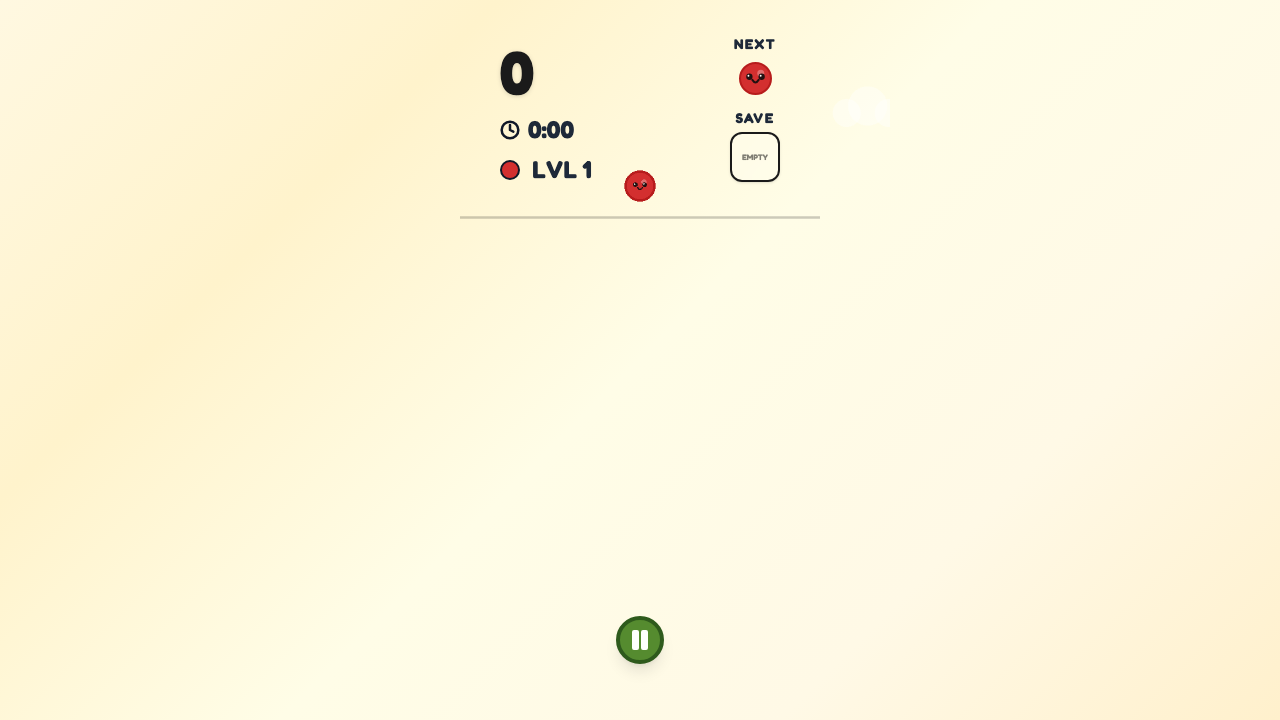
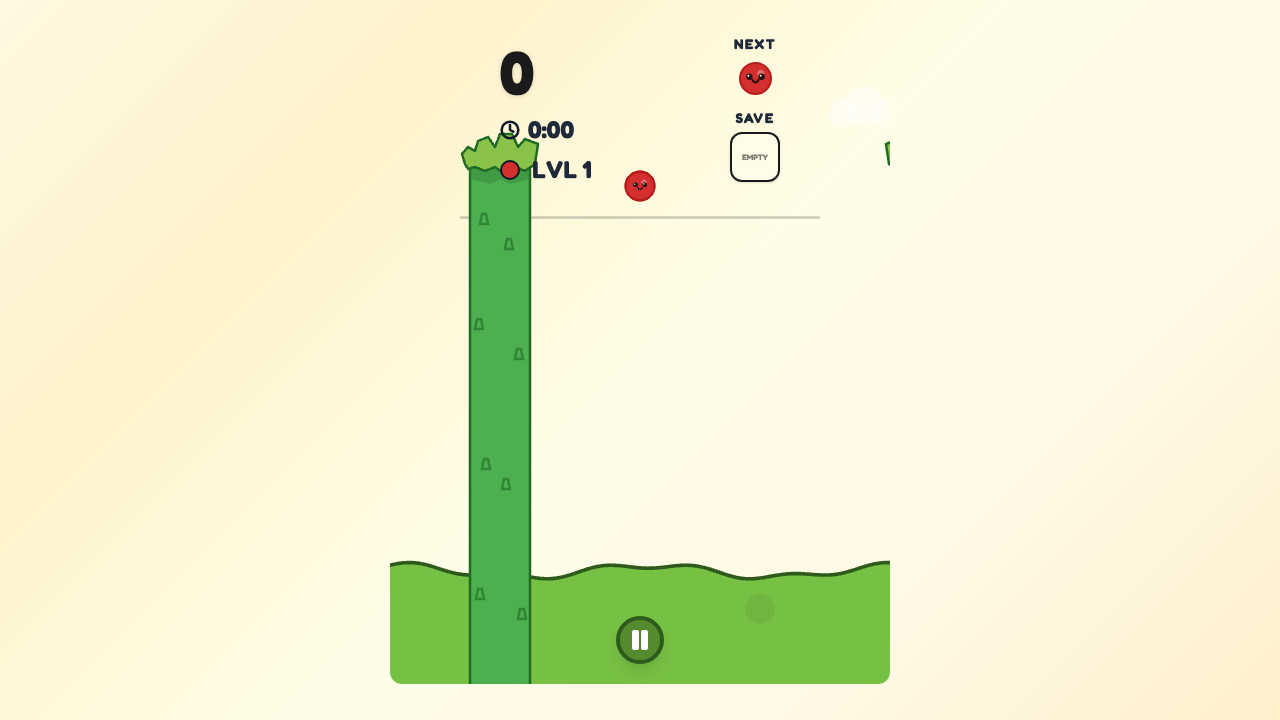
fix: Move WallRenderer + CloudRenderer to screen-space (Pixi stage), fix initialization order

Changed region(s): [[0.2812, 0.1833, 0.7188, 0.9472]]

diff --git a/services/renderers/WallRenderer.ts b/services/renderers/WallRenderer.ts
@@ -1,99 +1,77 @@
 import * as PIXI from 'pixi.js';
 
 /**
- * Renders the grass walls in Pixi.
- * Replaces WallCanvas.tsx — draws left and right grass walls.
+ * Renders the grass walls in Pixi screen-space.
+ * Replaces WallCanvas.tsx — draws left and right grass walls at screen coordinates.
  */
 export class WallRenderer {
-    private leftWall: PIXI.Graphics;
-    private rightWall: PIXI.Graphics;
+    private leftWall: PIXI.Container;
+    private rightWall: PIXI.Container;
 
-    constructor(parent: PIXI.Container) {
-        this.leftWall = new PIXI.Graphics();
-        this.rightWall = new PIXI.Graphics();
-        this.leftWall.zIndex = -50;
-        this.rightWall.zIndex = -50;
-        parent.addChild(this.leftWall);
-        parent.addChild(this.rightWall);
+    constructor(stage: PIXI.Container) {
+        this.leftWall = new PIXI.Container();
+        this.rightWall = new PIXI.Container();
+        this.leftWall.zIndex = 5;
+        this.rightWall.zIndex = 5;
+        stage.addChild(this.leftWall);
+        stage.addChild(this.rightWall);
     }
 
     /**
-     * Draw both grass walls.
-     * @param vHeight Virtual height of the game area
-     * @param scaleFactor Current scale factor
-     * @param gameAreaWidth Game area width in CSS pixels
+     * Draw both grass walls in screen coordinates.
      */
-    draw(vHeight: number, scaleFactor: number, gameAreaWidth: number): void {
-        this.leftWall.clear();
-        this.rightWall.clear();
+    draw(gameAreaWidth: number, _gameAreaHeight: number, containerTop: number, containerLeft: number, screenHeight: number): void {
+        this.leftWall.removeChildren();
+        this.rightWall.removeChildren();
 
         const wallWidth = 80;
-        const wallHeight = vHeight;
+        const wallHeight = screenHeight - 60;
+        const topMargin = 60;
 
-        // Left wall at x=0
-        this.drawWallShape(this.leftWall, wallHeight, false);
+        const drawWallShape = (): PIXI.Graphics => {
+            const g = new PIXI.Graphics();
 
-        // Right wall at x=vWidth, mirrored
-        const vWidth = gameAreaWidth / scaleFactor;
-        this.rightWall.x = vWidth;
+            // Main Wall Body
+            g.poly([10, 35, 10, wallHeight - 10, 10, wallHeight, 60, wallHeight, 70, wallHeight - 10, 70, 35]);
+            g.fill({ color: 0x4CAF50 });
+            g.stroke({ width: 2.5, color: 0x1f6b23, join: 'round' });
+
+            // Shadow under Grass Cap
+            g.poly([10, 35, 70, 35, 70, 50, 50, 55, 40, 50, 30, 55, 10, 50]);
+            g.fill({ color: 0x2E7D32, alpha: 0.4 });
+
+            // Grass Cap
+            g.poly([5, 35, 2, 25, 8, 18, 15, 22, 18, 12, 28, 8, 35, 18, 40, 5, 52, 5, 58, 18, 65, 10, 78, 15, 75, 35, 65, 42, 55, 38, 45, 45, 35, 38, 25, 42, 15, 38, 8, 40]);
+            g.fill({ color: 0x8BC34A });
+            g.stroke({ width: 2.5, color: 0x1f6b23, join: 'round' });
+
+            // Decorative Tufts
+            const tufts = [
+                { x: 20, y: 95 }, { x: 15, y: 200 }, { x: 22, y: 340 }, { x: 16, y: 470 },
+                { x: 45, y: 120 }, { x: 55, y: 230 }, { x: 42, y: 360 }, { x: 58, y: 490 },
+            ];
+            g.stroke({ width: 2.5, color: 0x1f6b23, cap: 'round', alpha: 0.6 });
+            tufts.forEach(tuft => {
+                if (tuft.y < wallHeight) {
+                    g.poly([tuft.x, tuft.y, tuft.x + 2, tuft.y - 10, tuft.x + 6, tuft.y - 10, tuft.x + 8, tuft.y]);
+                    g.stroke();
+                }
+            });
+
+            return g;
+        };
+
+        // Left wall
+        this.leftWall.x = containerLeft;
+        this.leftWall.y = topMargin;
+        const leftGraphics = drawWallShape();
+        this.leftWall.addChild(leftGraphics);
+
+        // Right wall (mirrored: flat side faces game area)
+        this.rightWall.x = containerLeft + gameAreaWidth;
+        this.rightWall.y = topMargin;
         this.rightWall.scale.x = -1;
-        this.drawWallShape(this.rightWall, wallHeight, false);
-    }
-
-    private drawWallShape(g: PIXI.Graphics, wallHeight: number, _side: boolean): void {
-        // Main Wall Body
-        g.poly([
-            10, 35,
-            10, wallHeight - 10,
-            10, wallHeight,
-            60, wallHeight,
-            70, wallHeight - 10,
-            70, 35,
-        ]);
-        g.fill({ color: 0x4CAF50 });
-        g.stroke({ width: 2.5, color: 0x1f6b23, join: 'round' });
-
-        // Shadow under Grass Cap
-        g.poly([
-            10, 35,
-            70, 35,
-            70, 50,
-            50, 55,
-            40, 50,
-            30, 55,
-            10, 50,
-        ]);
-        g.fill({ color: 0x2E7D32, alpha: 0.4 });
-
-        // Grass Cap (Bezier approximation with line segments)
-        g.poly([
-            5, 35, 2, 25, 8, 18, 15, 22,
-            18, 12, 28, 8, 35, 18,
-            40, 5, 52, 5, 58, 18,
-            65, 10, 78, 15, 75, 35,
-            65, 42, 55, 38, 45, 45,
-            35, 38, 25, 42, 15, 38, 8, 40,
-        ]);
-        g.fill({ color: 0x8BC34A });
-        g.stroke({ width: 2.5, color: 0x1f6b23, join: 'round' });
-
-        // Decorative Tufts
-        const tufts = [
-            { x: 20, y: 95 }, { x: 15, y: 200 }, { x: 22, y: 340 }, { x: 16, y: 470 },
-            { x: 45, y: 120 }, { x: 55, y: 230 }, { x: 42, y: 360 }, { x: 58, y: 490 },
-        ];
-
-        g.stroke({ width: 2.5, color: 0x1f6b23, cap: 'round', alpha: 0.6 });
-        tufts.forEach(tuft => {
-            if (tuft.y < wallHeight) {
-                g.poly([
-                    tuft.x, tuft.y,
-                    tuft.x + 2, tuft.y - 10,
-                    tuft.x + 6, tuft.y - 10,
-                    tuft.x + 8, tuft.y,
-                ]);
-                g.stroke();
-            }
-        });
+        const rightGraphics = drawWallShape();
+        this.rightWall.addChild(rightGraphics);
     }
 }

diff --git a/services/GameEngine.ts b/services/GameEngine.ts
@@ -11,6 +11,7 @@ import { EffectSystem } from './systems/EffectSystem';
 import { RenderSystem } from './systems/RenderSystem';
 import { ScoreController } from './systems/ScoreController';
 import { CloudRenderer } from './renderers/CloudRenderer';
+import { WallRenderer } from './renderers/WallRenderer';
 
 // --- Virtual Resolution ---
 // Aspect Ratio: 4:5
@@ -30,6 +31,12 @@ export class GameEngine {
     renderSystem: RenderSystem;
     scoreController: ScoreController;
     private cloudRenderer: CloudRenderer | null = null;
+    private wallRenderer: WallRenderer | null = null;
+    // Screen-space coordinates for wall/cloud renderers
+    private _screenWidth = 0;
+    private _screenHeight = 0;
+    private _containerTop = 0;
+    private _containerLeft = 0;
 
     // Game State
     fruits: Particle[] = [];
@@ -308,8 +315,14 @@ export class GameEngine {
         // Initialize Render System
         this.renderSystem.initialize(this.app, this.container);
 
-        // Initialize Cloud Renderer (screen-space, on the stage — not the scaled container)
+        // Initialize Cloud Renderer (screen-space, on the stage)
         this.cloudRenderer = new CloudRenderer(this.app.stage);
+
+        // Initialize Wall Renderer (screen-space, on the stage)
+        this.wallRenderer = new WallRenderer(this.app.stage);
+
+        // Re-run resize to update screen-space renderers now that they exist
+        this.handleResize();
 
         // Start Game
         this.spawnNextFruit();
@@ -429,7 +442,18 @@ export class GameEngine {
 
         this.container.position.set(xOffset, yOffset);
 
-        // Update Pixi-based ground and wall renderers
+        // Track screen-space coordinates for wall/cloud renderers
+        this._screenWidth = actualW;
+        this._screenHeight = actualH;
+        this._containerTop = yOffset;
+        this._containerLeft = xOffset;
+
+        // Update screen-space renderers (walls, clouds)
+        if (this.wallRenderer) {
+            this.wallRenderer.draw(actualW, actualH, yOffset, xOffset, actualH);
+        }
+
+        // Update virtual-space ground renderer (inside the game container)
         this.renderSystem.updateEnvironment(actualW, actualH, V_WIDTH, V_HEIGHT, this.scaleFactor);
     }
 
@@ -616,7 +640,7 @@ export class GameEngine {
 
         // Update clouds (screen-space animation)
         if (this.cloudRenderer && this.app) {
-            this.cloudRenderer.update(this.app.screen.width, this.container.position.y);
+            this.cloudRenderer.update(this._screenWidth, this._containerTop);
         }
 
         // Sync Render State

diff --git a/services/renderers/CloudRenderer.ts b/services/renderers/CloudRenderer.ts
@@ -1,29 +1,28 @@
 import * as PIXI from 'pixi.js';
 
 /**
- * Renders animated clouds in Pixi.
- * Replaces CloudsCanvas.tsx — draws clouds using Pixi ticker instead of separate rAF loop.
- * Clouds live in the band above the game area.
+ * Renders animated clouds in Pixi screen-space.
+ * Replaces CloudsCanvas.tsx — draws clouds using Pixi ticker.
+ * Lives on the Pixi stage (screen coordinates), not the scaled game container.
  */
-interface Cloud {
+interface CloudData {
     sprite: PIXI.Graphics;
     yPercent: number;
-    duration: number; // seconds for one full pass
-    delay: number;    // seconds offset
+    duration: number;
+    delay: number;
     opacity: number;
 }
 
 export class CloudRenderer {
     private container: PIXI.Container;
-    private clouds: Cloud[] = [];
-    private zoneTop: number = 0;
+    private clouds: CloudData[] = [];
     private zoneHeight: number = 180;
     private startTime: number = 0;
 
-    constructor(parent: PIXI.Container) {
+    constructor(stage: PIXI.Container) {
         this.container = new PIXI.Container();
-        this.container.zIndex = -200; // Behind everything
-        parent.addChild(this.container);
+        this.container.zIndex = -200;
+        stage.addChild(this.container);
 
         this.createClouds();
     }
@@ -65,26 +64,25 @@ export class CloudRenderer {
     }
 
     /**
-     * Update cloud positions. Called from the Pixi ticker each frame.
+     * Update cloud positions. Called from the Pixi ticker.
      * @param screenWidth Screen width in CSS pixels
      * @param containerScreenY Container Y position on screen (CSS pixels)
      */
     update(screenWidth: number, containerScreenY: number): void {
         if (this.startTime === 0) this.startTime = performance.now();
-        const elapsed = (performance.now() - this.startTime) / 1000; // seconds
+        const elapsed = (performance.now() - this.startTime) / 1000;
 
         const vw = screenWidth / 100;
         const totalDistance = 160 * vw;
         const startX = -50 * vw;
 
-        // Zone boundaries
+        // Zone: above the game container
         const zoneTop = containerScreenY - 140;
         const zoneH = this.zoneHeight;
 
         for (const cloud of this.clouds) {
             const cycleTime = cloud.duration;
-            const delayMs = cloud.delay;
-            const totalTime = elapsed - delayMs;
+            const totalTime = elapsed - cloud.delay;
 
             let progress = (totalTime % cycleTime) / cycleTime;
             if (progress < 0) progress += 1;
